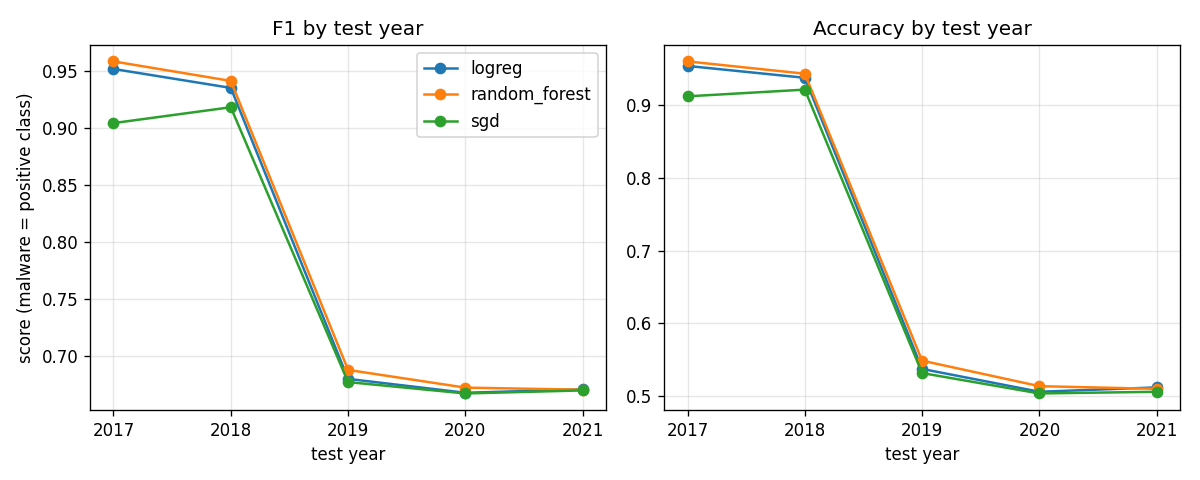
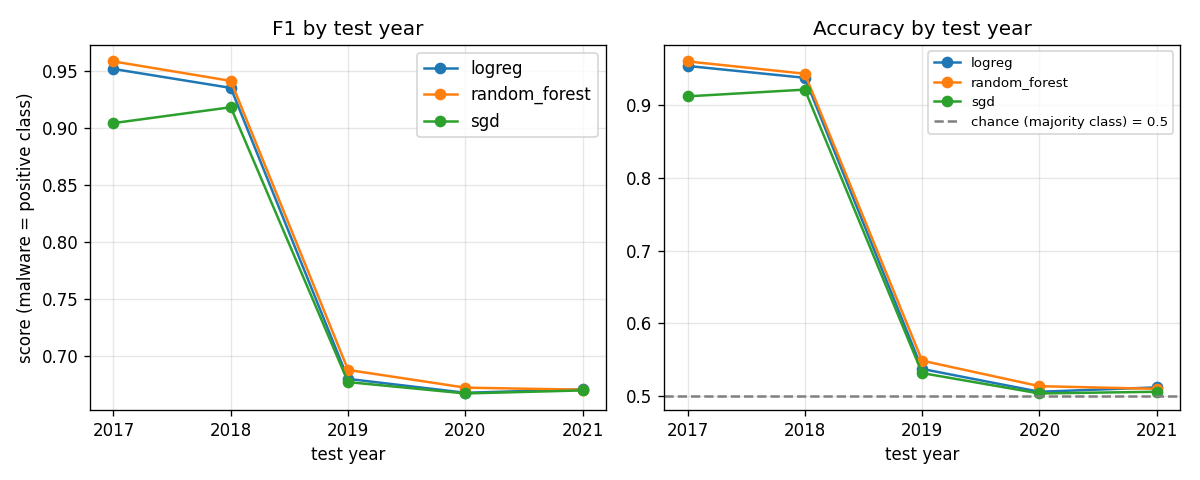
[builder] Step 6: regenerate results/step6_* (confusion, clip tables, no-dup columns, chance line)

Changed region(s): [[0.7708, 0.0938, 0.9867, 0.2188], [0.555, 0.8125, 0.9867, 0.8438], [0.7708, 0.25, 0.9867, 0.2812]]

diff --git a/results/step6_per_year_no_dup.md b/results/step6_per_year_no_dup.md
@@ -1,17 +1,17 @@
-| classifier | year | accuracy | precision | recall | f1 | n | n_excluded |
-|---|---|---|---|---|---|---|---|
-| logreg | 2017 | 0.9609 | 0.9880 | 0.8949 | 0.9392 | 12028 | 5972 |
-| logreg | 2018 | 0.9467 | 0.9683 | 0.9189 | 0.9430 | 16355 | 1645 |
-| logreg | 2019 | 0.5304 | 0.5147 | 0.9809 | 0.6751 | 2943 | 57 |
-| logreg | 2020 | 0.4971 | 0.4938 | 0.9931 | 0.6596 | 2933 | 67 |
-| logreg | 2021 | 0.5120 | 0.5060 | 0.9920 | 0.6701 | 2998 | 2 |
-| random_forest | 2017 | 0.9683 | 0.9941 | 0.9114 | 0.9510 | 12028 | 5972 |
-| random_forest | 2018 | 0.9526 | 0.9691 | 0.9309 | 0.9496 | 16355 | 1645 |
-| random_forest | 2019 | 0.5420 | 0.5208 | 0.9925 | 0.6831 | 2943 | 57 |
-| random_forest | 2020 | 0.5049 | 0.4977 | 0.9979 | 0.6642 | 2933 | 67 |
-| random_forest | 2021 | 0.5100 | 0.5049 | 0.9947 | 0.6698 | 2998 | 2 |
-| sgd | 2017 | 0.9644 | 0.9832 | 0.9099 | 0.9452 | 12028 | 5972 |
-| sgd | 2018 | 0.9448 | 0.9518 | 0.9322 | 0.9419 | 16355 | 1645 |
-| sgd | 2019 | 0.5267 | 0.5126 | 0.9843 | 0.6742 | 2943 | 57 |
-| sgd | 2020 | 0.4957 | 0.4931 | 0.9972 | 0.6599 | 2933 | 67 |
-| sgd | 2021 | 0.5060 | 0.5029 | 1 | 0.6692 | 2998 | 2 |
+| classifier | year | accuracy | precision | recall | f1 | n | n_excluded | n_malware | n_benign | baseline_accuracy |
+|---|---|---|---|---|---|---|---|---|---|---|
+| logreg | 2017 | 0.9609 | 0.9880 | 0.8949 | 0.9392 | 12028 | 5972 | 4053 | 7975 | 0.6630 |
+| logreg | 2018 | 0.9467 | 0.9683 | 0.9189 | 0.9430 | 16355 | 1645 | 7846 | 8509 | 0.5203 |
+| logreg | 2019 | 0.5304 | 0.5147 | 0.9809 | 0.6751 | 2943 | 57 | 1464 | 1479 | 0.5025 |
+| logreg | 2020 | 0.4971 | 0.4938 | 0.9931 | 0.6596 | 2933 | 67 | 1439 | 1494 | 0.5094 |
+| logreg | 2021 | 0.5120 | 0.5060 | 0.9920 | 0.6701 | 2998 | 2 | 1498 | 1500 | 0.5003 |
+| random_forest | 2017 | 0.9683 | 0.9941 | 0.9114 | 0.9510 | 12028 | 5972 | 4053 | 7975 | 0.6630 |
+| random_forest | 2018 | 0.9526 | 0.9691 | 0.9309 | 0.9496 | 16355 | 1645 | 7846 | 8509 | 0.5203 |
+| random_forest | 2019 | 0.5420 | 0.5208 | 0.9925 | 0.6831 | 2943 | 57 | 1464 | 1479 | 0.5025 |
+| random_forest | 2020 | 0.5049 | 0.4977 | 0.9979 | 0.6642 | 2933 | 67 | 1439 | 1494 | 0.5094 |
+| random_forest | 2021 | 0.5100 | 0.5049 | 0.9947 | 0.6698 | 2998 | 2 | 1498 | 1500 | 0.5003 |
+| sgd | 2017 | 0.9644 | 0.9832 | 0.9099 | 0.9452 | 12028 | 5972 | 4053 | 7975 | 0.6630 |
+| sgd | 2018 | 0.9448 | 0.9518 | 0.9322 | 0.9419 | 16355 | 1645 | 7846 | 8509 | 0.5203 |
+| sgd | 2019 | 0.5267 | 0.5126 | 0.9843 | 0.6742 | 2943 | 57 | 1464 | 1479 | 0.5025 |
+| sgd | 2020 | 0.4957 | 0.4931 | 0.9972 | 0.6599 | 2933 | 67 | 1439 | 1494 | 0.5094 |
+| sgd | 2021 | 0.5060 | 0.5029 | 1 | 0.6692 | 2998 | 2 | 1498 | 1500 | 0.5003 |

diff --git a/results/step6_confusion_by_year.md b/results/step6_confusion_by_year.md
@@ -1,0 +1,17 @@
+| classifier | year | tn | fp | fn | tp | predicted_malware_share |
+|---|---|---|---|---|---|---|
+| logreg | 2017 | 8949 | 51 | 788 | 8212 | 0.4591 |
+| logreg | 2018 | 8754 | 246 | 886 | 8114 | 0.4644 |
+| logreg | 2019 | 142 | 1358 | 29 | 1471 | 0.9430 |
+| logreg | 2020 | 33 | 1467 | 14 | 1486 | 0.9843 |
+| logreg | 2021 | 49 | 1451 | 12 | 1488 | 0.9797 |
+| random_forest | 2017 | 8976 | 24 | 703 | 8297 | 0.4623 |
+| random_forest | 2018 | 8760 | 240 | 791 | 8209 | 0.4694 |
+| random_forest | 2019 | 159 | 1341 | 12 | 1488 | 0.9430 |
+| random_forest | 2020 | 49 | 1451 | 7 | 1493 | 0.9813 |
+| random_forest | 2021 | 39 | 1461 | 8 | 1492 | 0.9843 |
+| sgd | 2017 | 8930 | 70 | 1520 | 7480 | 0.4194 |
+| sgd | 2018 | 8623 | 377 | 1047 | 7953 | 0.4628 |
+| sgd | 2019 | 126 | 1374 | 30 | 1470 | 0.9480 |
+| sgd | 2020 | 23 | 1477 | 11 | 1489 | 0.9887 |
+| sgd | 2021 | 19 | 1481 | 0 | 1500 | 0.9937 |

diff --git a/results/step6_clip_by_year.md b/results/step6_clip_by_year.md
@@ -1,0 +1,10 @@
+| side | year | n | clip_share | mean_abs_z |
+|---|---|---|---|---|
+| train | 2014 | 18000 | 0.0008 | 0.3390 |
+| train | 2015 | 18000 | 0.0010 | 0.3487 |
+| train | 2016 | 18000 | 0.0015 | 0.4042 |
+| test | 2017 | 18000 | 0.0018 | 0.3848 |
+| test | 2018 | 18000 | 0.0030 | 0.4382 |
+| test | 2019 | 3000 | 0.0051 | 0.5190 |
+| test | 2020 | 3000 | 0.0071 | 0.6119 |
+| test | 2021 | 3000 | 0.0106 | 0.8050 |
